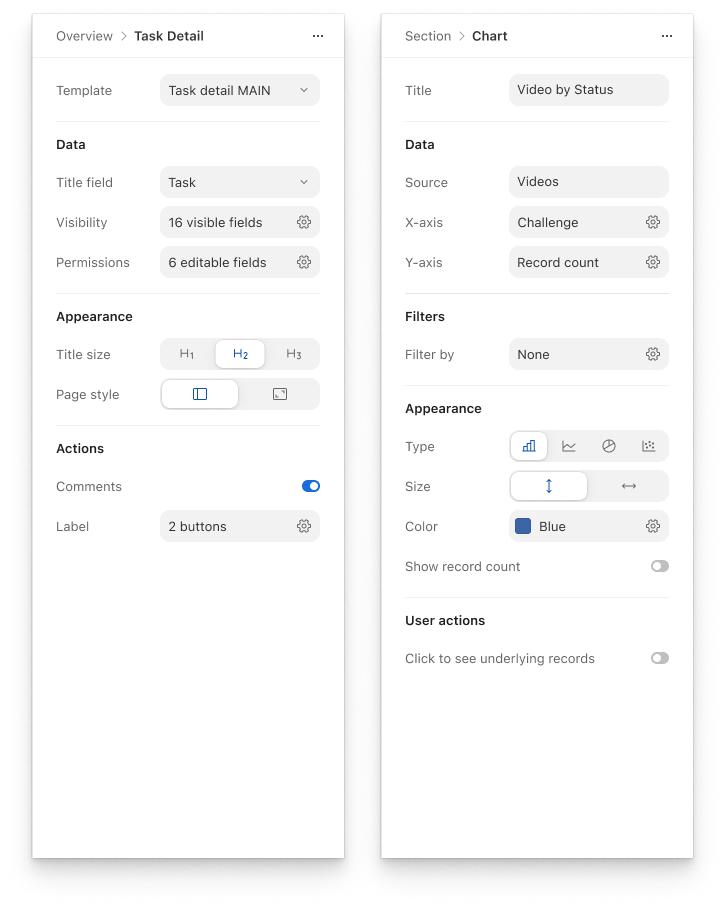
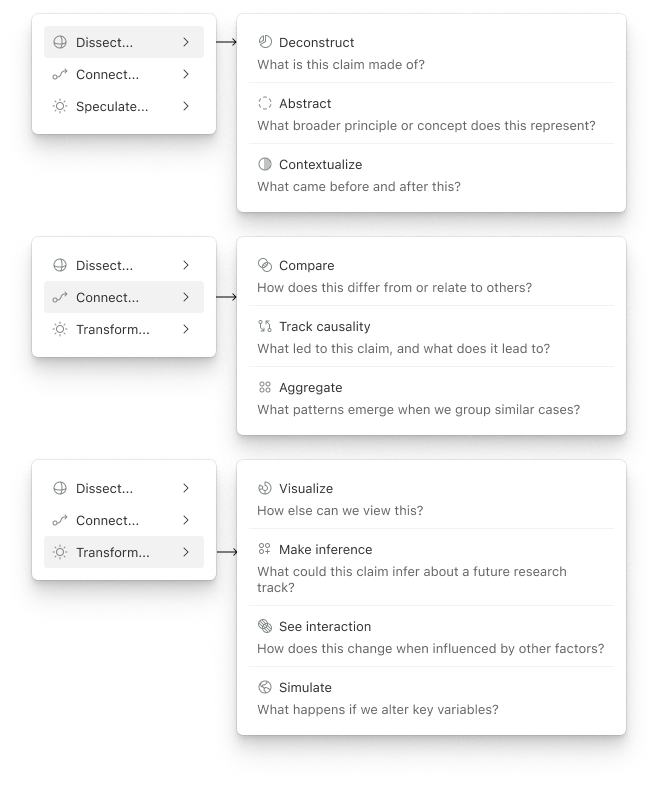
Significant text additions to Elicit page.

diff --git a/src/pages/elicit/index.js b/src/pages/elicit/index.js
@@ -2,22 +2,10 @@ import React from "react"
 import SEO from '../../components/seo';
 import Hero from "./images/hero.png";
 
-import Glam1 from "./images/Glam1.png";
-import Glam2 from "./images/Glam2.png";
-import Glam3 from "./images/Glam3.png";
-import Glam4 from "./images/Glam4.png";
-
-
 import Fig1 from "./images/Fig1.gif";
 import Fig2 from "./images/Fig2.png";
 import Fig3 from "./images/Fig3.png";
-import Fig4 from "./images/Fig4.gif";
-import Fig5 from "./images/Fig5.png";
-import Fig6 from "./images/Fig6.gif";
-import Fig7 from "./images/Fig7.gif";
-import Fig8 from "./images/Fig8.png";
-import Fig9 from "./images/Fig9.png";
-
+import Fig4 from "./images/Fig4.png";
 
 import "../../css/global.css"
 import Header from "../../components/header/header"
@@ -60,56 +48,62 @@ class Index extends React.Component {
           ]
         }
           abstractRole="Product Designer"
-          abstractTools="Multivariate Testing, Prototyping"
+          abstractTools="Prototyping, Multi-arm Testing"
           abstractTime="2024 – Present"
-          abstractBody="Elicit is an AI tool for scientific research with deep roots in an AI Safety research lab called Ought. I comprise 1 of the 2 people legally allowed to call this a design team. Covering a wide range, from running experiments with my analytics buddy, to thinking really hard about auditability of AI systems."
+          abstractBody="Elicit is an AI tool for scientific research with deep roots in an AI Safety research lab called Ought. As 1 of the 3 people legally allowed to call this a design team, I cover a wide range, from running experiments with my analytics buddy, to thinking really hard about auditability of AI systems."
         />
 
-        <Tracker phaseList={['ITERABILITY', 'SENSE-MAKING', 'GROWTH', 'CULTURE']}
+        <Tracker phaseList={['ITERABILITY', 'AUDITABILITY', 'GROWTH', 'CULTURE']}
           trackerHead={Constants.elicit.heroTitle} />
         <div id="p1">
-          <Phase phaseTitle="Iterability" />
+          <Phase phaseTitle="Input Iterability" />
           <ImgLeft img={Fig1} padding="yes" imgNum="01" imgCaption="Favorite project from this era — the query suggester." />
           <Paragraph paragraphTitle="Facilitating Improvement Loops"
-            paragraphBody="First of its kind at the time, my query suggester experience was [[one of the most impactful>https://x.com/Stammy/status/1892615079302209727 ]] results of this body of work." />
+            paragraphBody="A big problem space in AI is the causal relationship between input and output quality. As of 2024, you often saw iteration on outputs, but rarely LLM-powered iteration on prompts. First of its kind at the time, my query suggester experience was [[the most impactful>https://x.com/Stammy/status/1892615079302209727 ]] result of this much larger body of work." />
           <List listTitle="Questions you may want to ask me:" listType='ol'
             listItems={[
               "Do people prefer to iterate from outputs or perfect prompts?",
-              "What is the Why Does It Suck framework?"
+              "How to disambuguate user queries for better precision?",
+              "How do we craft an incisive prompt for an incisive output?",
+              "How does calibration of uncertainty in prompts results in better outputs?"
             ]} />
         </div>
         <div id="p2">
-          <Phase phaseTitle="Sense-Making" />
-          <ImgLeft img={Fig2} padding="" imgNum="02" imgCaption="Favorite project from this era — redesigning all control panels in Airtable." />
-          <Paragraph paragraphTitle="App Building Experience"
-            paragraphBody="Temporarily embedded on a core product team, I represented the Design Systems crew to help develop a best-in-class canvas interaction model and a corresponding component library for configuration panels. Launching in October 2023, it's [[featured on Airtable's blog>https://blog.airtable.com/new-app-building-features/]]." />
+          <Phase phaseTitle="Output Auditability" />
+          <ImgLeft img={Fig2} padding="" imgNum="02" imgCaption="The Context Menu of Sense-Making" />
+          <Paragraph paragraphTitle="Factored Cognition, Sense-making"
+            paragraphBody="Input optimization can only get us so far, and the vast majority of iteration occurs after running the prompt. To iterate from results, the output should be highly auditable. This multi-project body of work explored ways to structure non-deterministic data to make our flagship features easy to browse and iterate from." />
           <List listTitle="Questions you may want to ask me:" listType='ol'
             listItems={["What the hell is factored cognition?",
-              "How to ensure the user can distinguish what element is being targeted by the cursor?",
-              "When selecting elements on the canvas, when is it important to show parent elements? What about sibling elements?",
-              "What does it mean to be scannable?"
+              "What the hell is sense-making?",
+              "How might we visually structure complex information for better sense-making and auditability?",
+              "How does one design for non-deterministic outputs?",
+              "How does narrative data enrichment differ from tabular data enrichment?",
+              "What is the Why Does It Suck framework?",
+              "How might we maintain user engagement while rewarding iteration?"
             ]} />
         </div>
         <div id="p3">
           <Phase phaseTitle="Growth" />
-          <Paragraph paragraphTitle="Aero Design System"
-            paragraphBody="Since January 2023, my team has worked together to launch the first version of our Aero Design System. As the sole design systems IC, I am responsible for facilitating contributions from other designers, as well as hosting weekly office hours to help designers leverage the system to its fullest." />
-          <ImgLeft img={Fig3} padding="" imgNum="03" imgCaption="Aero's Announcement Page" />
+          <Paragraph paragraphTitle="Web Extension, Onboarding, Free Trials"
+            paragraphBody="Growth comes in many forms at Elicit, from running multi-arm experiments on our pricing and packaging to making churn-prone workflows more delightful to use." />
           <List listTitle="Questions you may want to ask me:" listType='ol'
-            listItems={["What happens when the Free plan becomes a Skip button?",
-              "tktk"
+            listItems={["What happens when you turn a pricing plan card into a button?",
+              "How did a bespoke PDF-fetching web extension boost our retention metrics?",
+              "How do you build a free trial from scratch for maximum impact?",
+              "What are the 3 difficulty levels of academic plan verification flows? And can I speedrun the hardest one?",
             ]} />
         </div>
         <div id="p4">
           <Phase phaseTitle="Culture" />
-          <ImgLeft img={Fig4} padding="true" imgNum="04" imgCaption="Sharing Experience on Mobile" />
           <Paragraph paragraphTitle="Eliciting Good Feelings"
-            paragraphBody="Since September 2023, I've been the sole designer supporting our mobile app experience on iOS and Android. Given the spatial constraint when designing for mobile, I employ time-based disclosure paradigms to adapt web features to smaller screens." />
+            paragraphBody="Elicit's logo is a stack of books designed by the wonderful [[Maggie Appleton>https://maggieappleton.com/]] and since I took over, they've been horribly bastardized by my grubby fingers. " />
           <List listTitle="Questions you may want to ask me:" listType='ol'
-            listItems={["How might we leverage the simplicity of mobile patterns to make web experiences more delightful and well-timed?",
-              "Why is time more important than space in mobile design? In what ways can this manifest?",
-              "What are some differences to keep in mind when designing for Android over iOS?"
+            listItems={["What's inside the Elicit books anyway?",
+              "Why is there an otter on some of the Elician laptops?",
+              "Should I be afraid of the Elizard?"
             ]} />
+          <ImgRight img={Fig4} padding="true" imgNum="04" imgCaption="Yes, you should be afraid of the Elizard." />
         </div>
         <More />
         <Contact />
